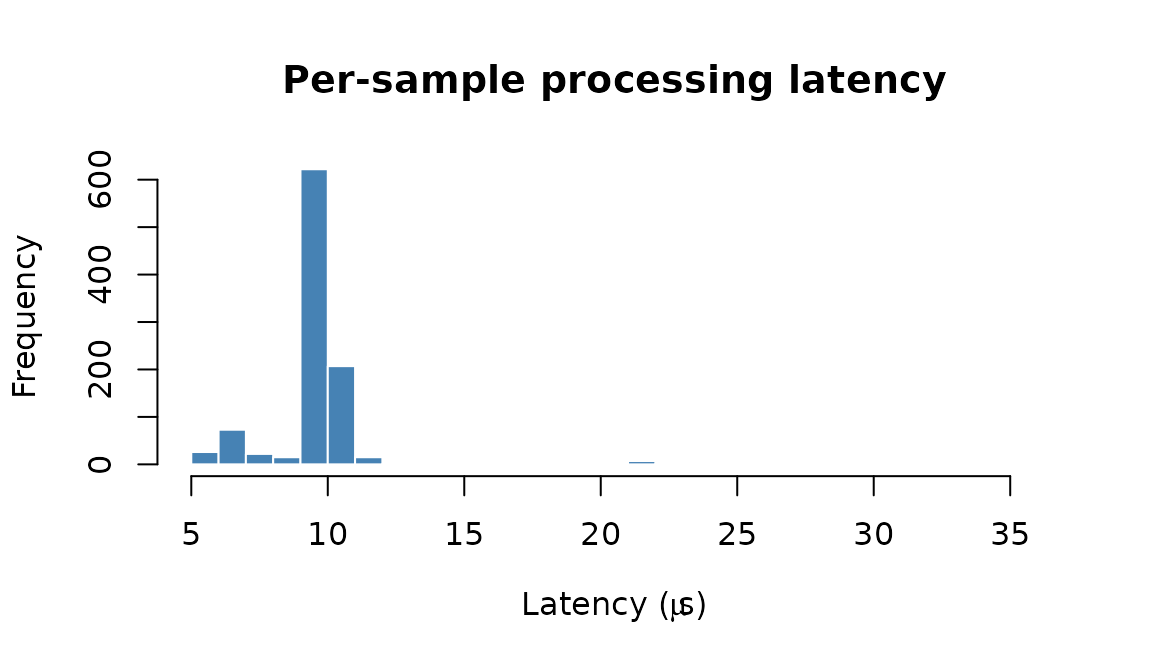
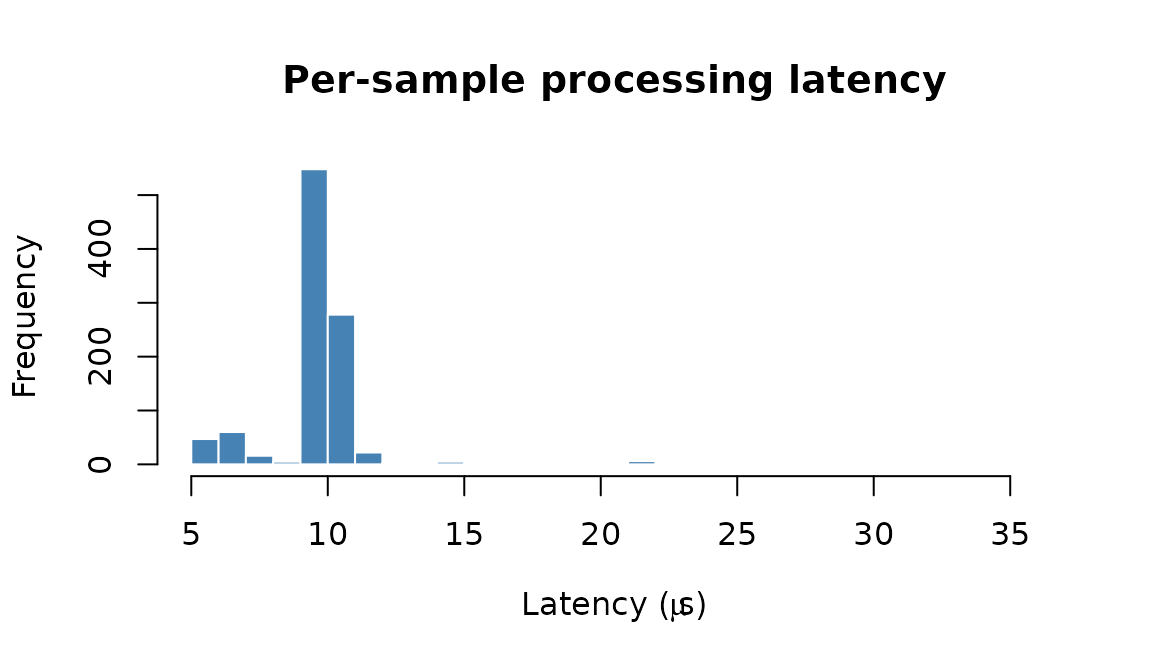
Deploying to gh-pages from @ mkyou/rLifting@5d1f9abd31456525eb71e25cb16fd6d5e755a184 🚀

diff --git a/articles/04_realtime.html b/articles/04_realtime.html
@@ -224,7 +224,7 @@ per-sample overhead is extremely low:</p>
 <span><span class="fu"><a href="https://rdrr.io/r/base/cat.html" class="external-link">cat</a></span><span class="op">(</span><span class="fu"><a href="https://rdrr.io/r/base/sprintf.html" class="external-link">sprintf</a></span><span class="op">(</span><span class="st">"Median latency: %.1f \u00b5s\n"</span>, <span class="fu"><a href="https://rdrr.io/r/stats/median.html" class="external-link">median</a></span><span class="op">(</span><span class="va">latency_us</span><span class="op">)</span><span class="op">)</span><span class="op">)</span></span>
 <span><span class="co">#&gt; Median latency: 9.5 µs</span></span>
 <span><span class="fu"><a href="https://rdrr.io/r/base/cat.html" class="external-link">cat</a></span><span class="op">(</span><span class="fu"><a href="https://rdrr.io/r/base/sprintf.html" class="external-link">sprintf</a></span><span class="op">(</span><span class="st">"95th percentile: %.1f \u00b5s\n"</span>, <span class="fu"><a href="https://rdrr.io/r/stats/quantile.html" class="external-link">quantile</a></span><span class="op">(</span><span class="va">latency_us</span>, <span class="fl">0.95</span><span class="op">)</span><span class="op">)</span><span class="op">)</span></span>
-<span><span class="co">#&gt; 95th percentile: 10.7 µs</span></span>
+<span><span class="co">#&gt; 95th percentile: 11.0 µs</span></span>
 <span><span class="fu"><a href="https://rdrr.io/r/base/cat.html" class="external-link">cat</a></span><span class="op">(</span><span class="fu"><a href="https://rdrr.io/r/base/sprintf.html" class="external-link">sprintf</a></span><span class="op">(</span><span class="st">"Max latency: %.1f \u00b5s\n"</span>, <span class="fu"><a href="https://rdrr.io/r/base/Extremes.html" class="external-link">max</a></span><span class="op">(</span><span class="va">latency_us</span><span class="op">)</span><span class="op">)</span><span class="op">)</span></span>
 <span><span class="co">#&gt; Max latency: 35.5 µs</span></span></code></pre></div>
 <div class="sourceCode" id="cb5"><pre class="downlit sourceCode r">

diff --git a/articles/04_realtime.md b/articles/04_realtime.md
@@ -117,7 +117,7 @@ latency_us = process_time[-1] * 1e6
 cat(sprintf("Median latency: %.1f \u00b5s\n", median(latency_us)))
 #> Median latency: 9.5 µs
 cat(sprintf("95th percentile: %.1f \u00b5s\n", quantile(latency_us, 0.95)))
-#> 95th percentile: 10.7 µs
+#> 95th percentile: 11.0 µs
 cat(sprintf("Max latency: %.1f \u00b5s\n", max(latency_us)))
 #> Max latency: 35.5 µs
 ```
